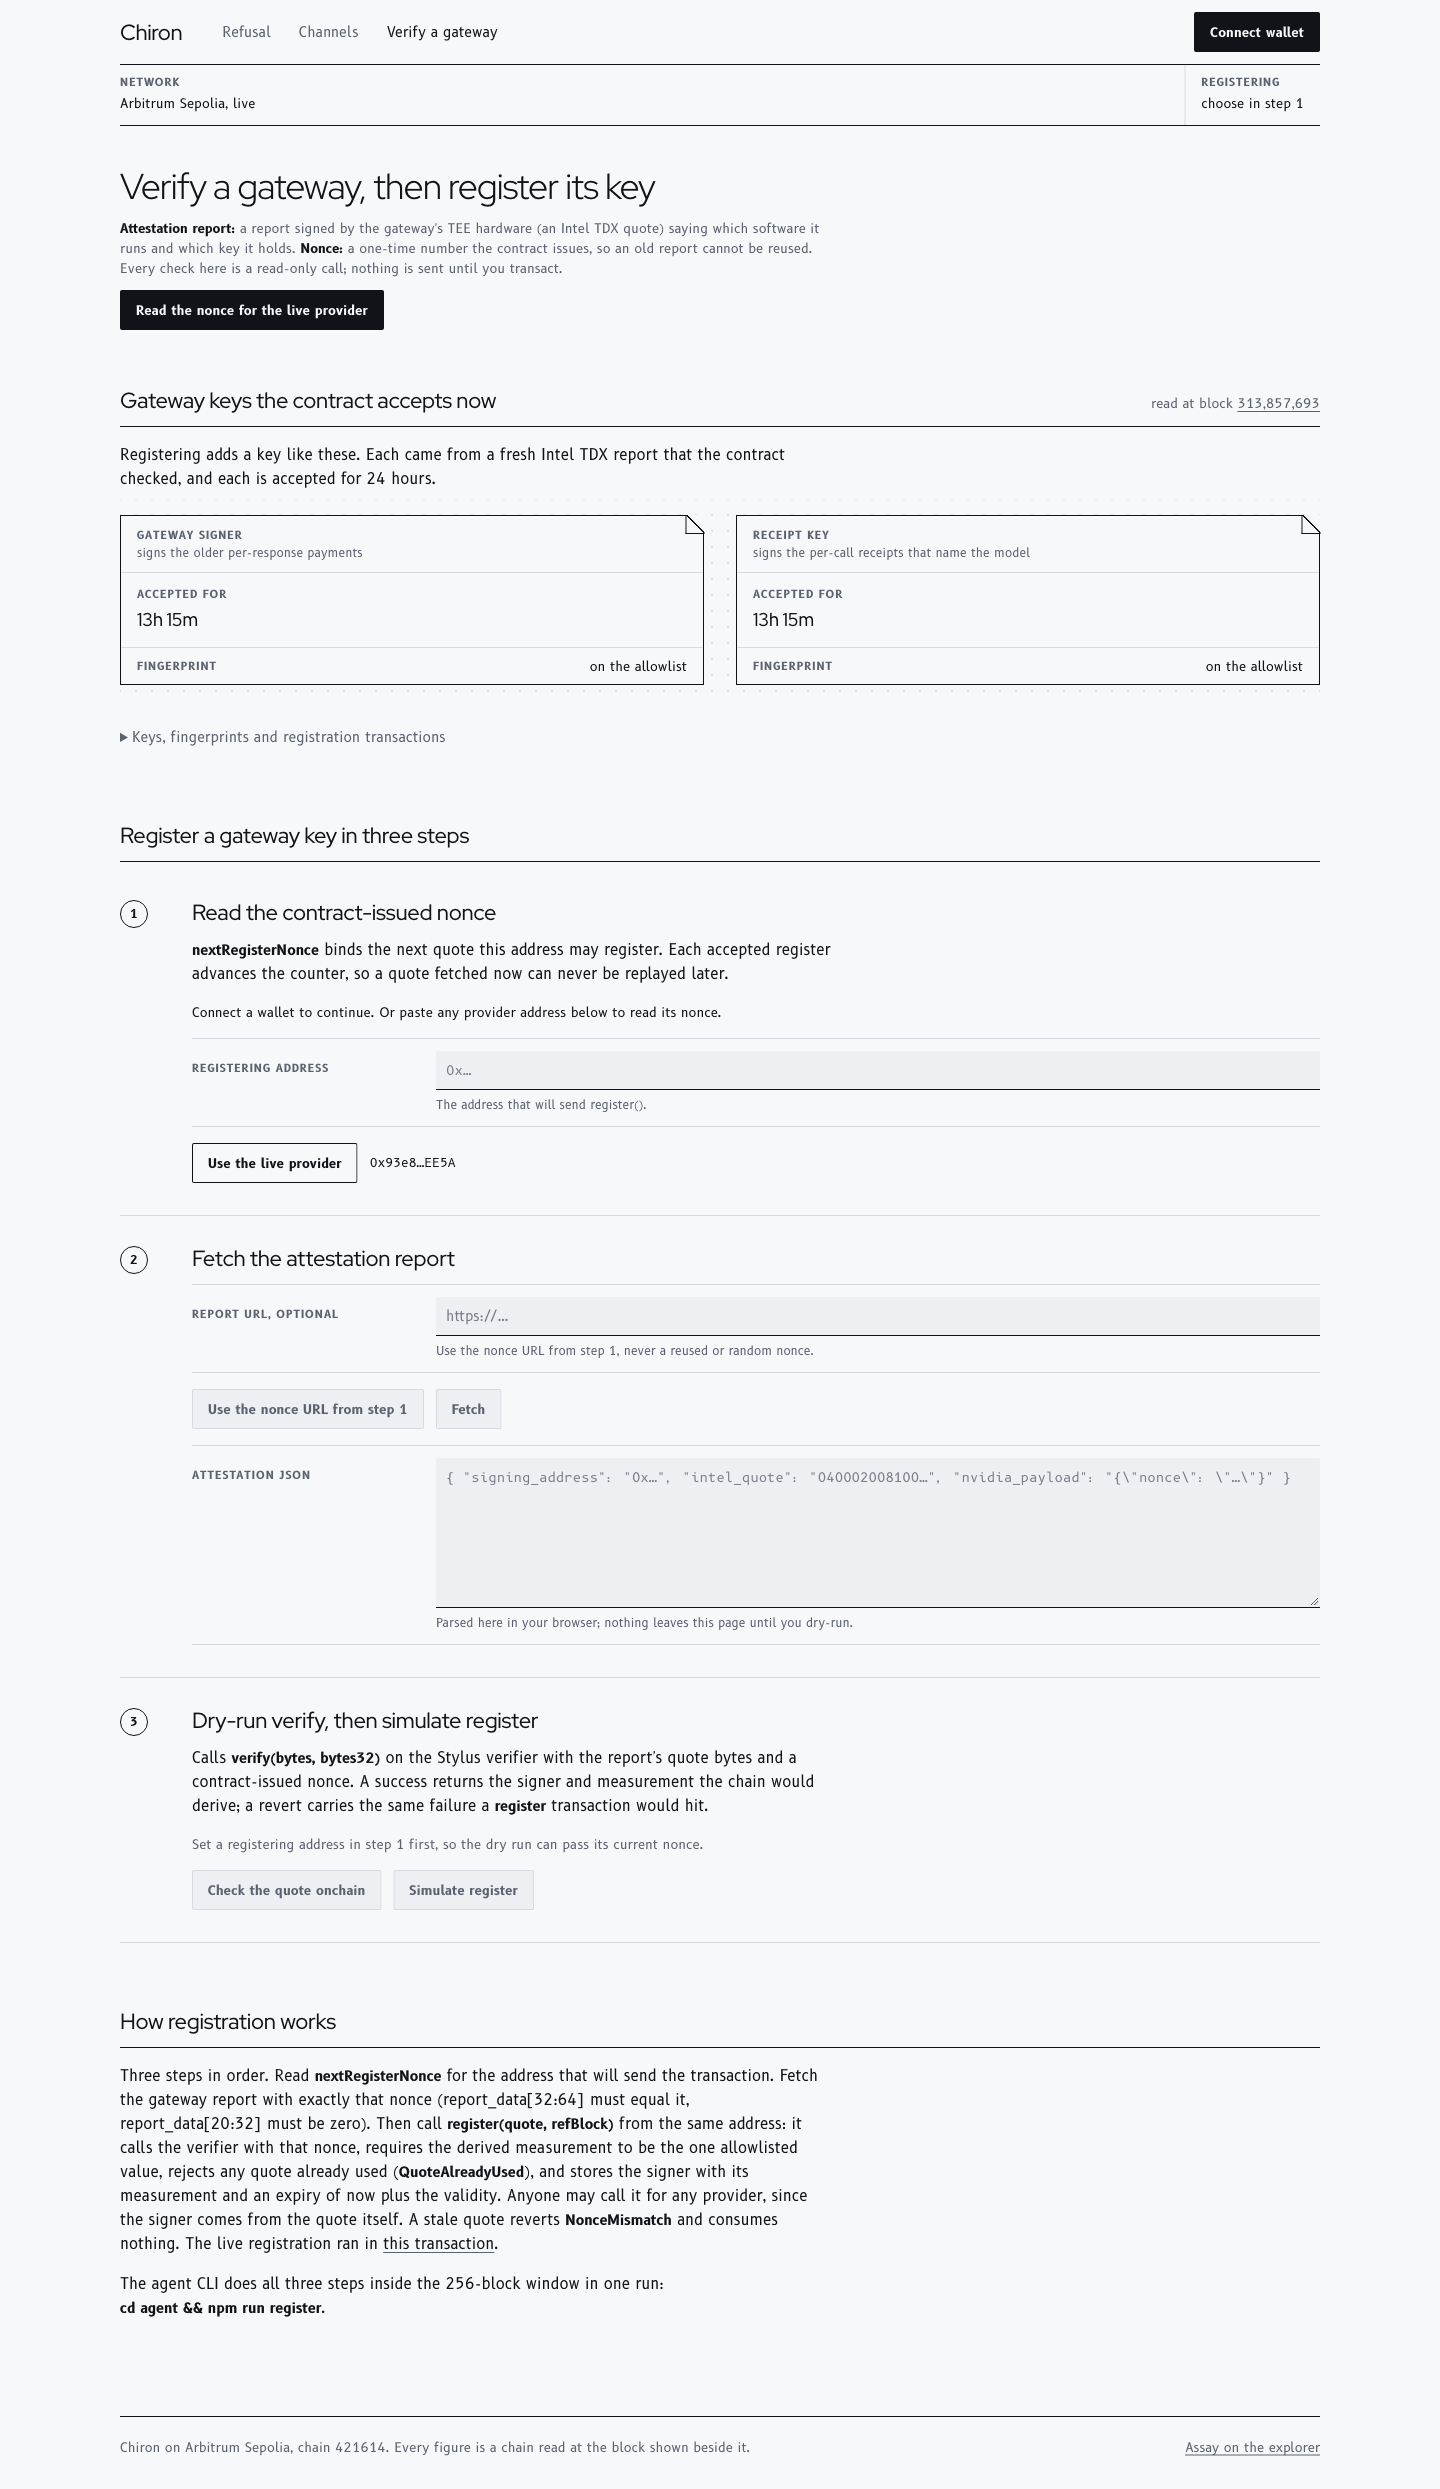
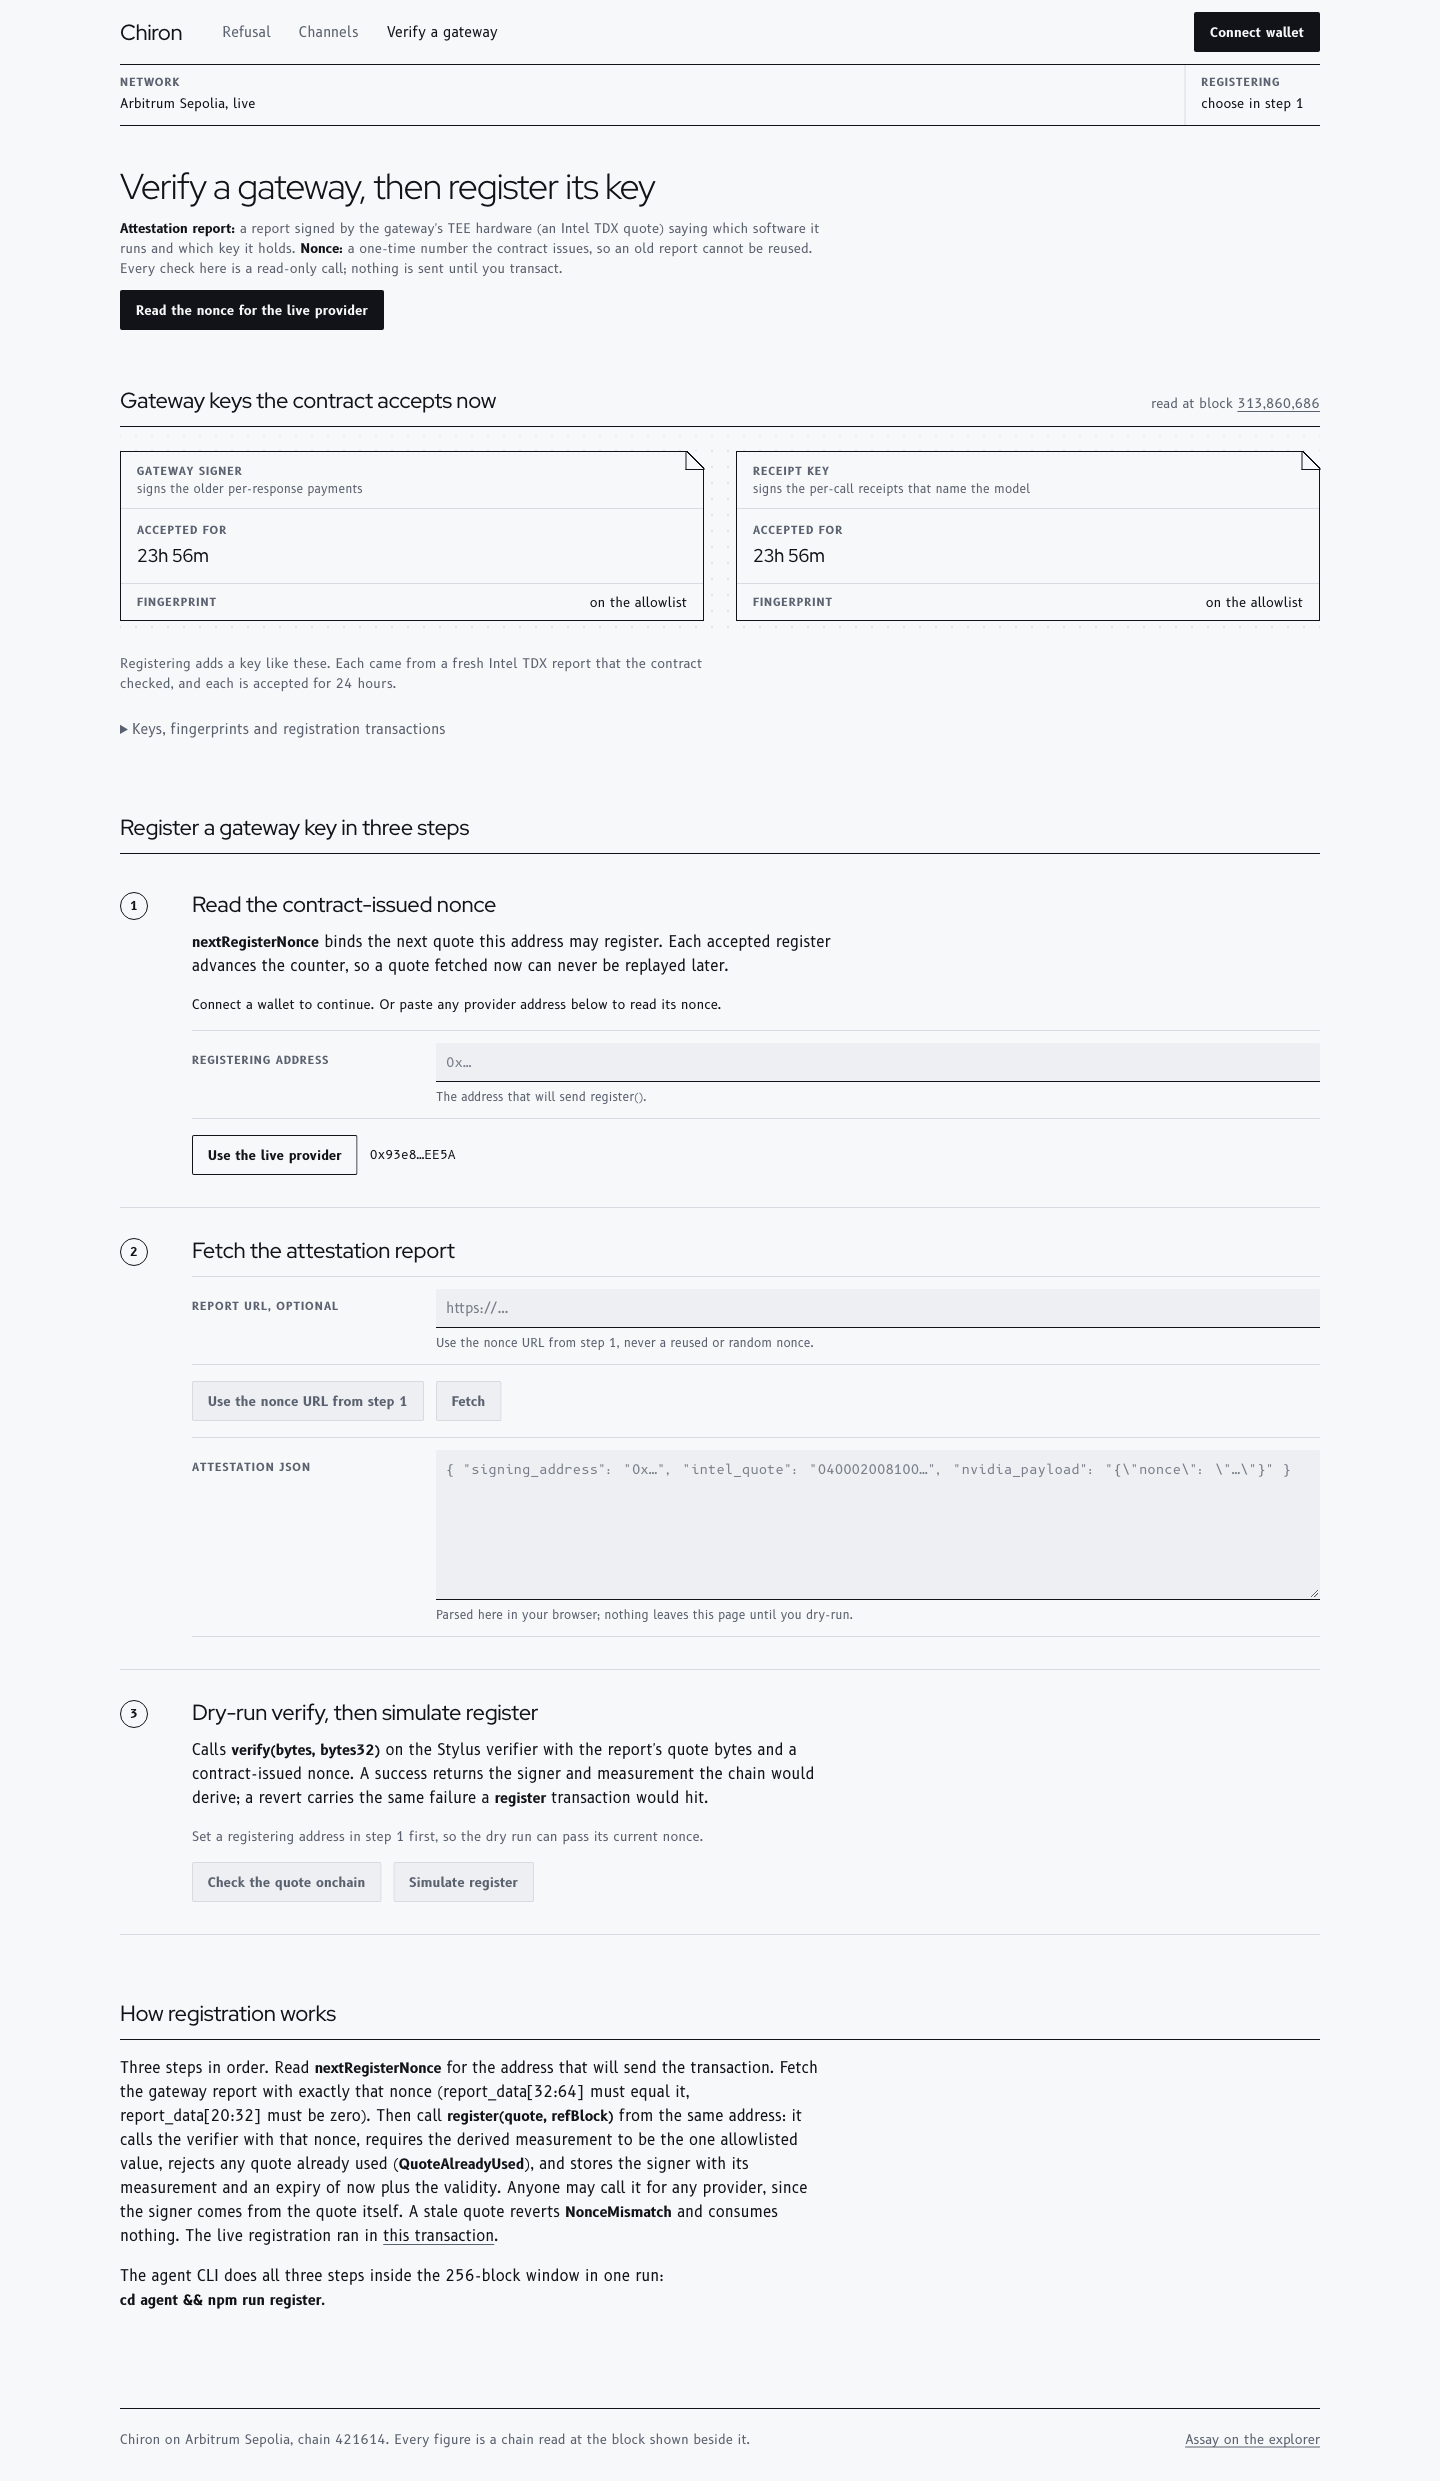
web: critic round 3 follow-ups: the cut explains itself (no match, check 7 of 9) instead of an orphan 7, key intro under the documents, strike clipped to the amount; final screenshots

diff --git a/web/src/pages/Overview.tsx b/web/src/pages/Overview.tsx
@@ -276,7 +276,7 @@ function Refusal() {
       <TitleBlock
         cells={[
           { label: 'Network', value: `${assayChain.name}, live`, mobileHide: true },
-          { label: 'Contract', value: 'Assay, the payment channel', mobileHide: true },
+          { label: 'Contract', value: "Assay, Chiron's payment channel", mobileHide: true },
           verdictCell,
         ]}
       />
@@ -326,7 +326,7 @@ function Refusal() {
               <span className="small">USDG, a dollar stablecoin, locked by an agent to pay one provider per call</span>
             </div>
             <div className="doc-key">
-              <span className="t-label key-label"><Num n={7} mark={r ? mark(7) : 'plain'} /> Opened for the model</span>
+              <span className="t-label key-label">Opened for the model</span>
               <span className="t-diff">{pinnedLabel}</span>
             </div>
           </div>
@@ -334,6 +334,7 @@ function Refusal() {
             <span className="wire a" />
             <span className="cut" />
             <span className="wire b" />
+            {r && <span className="cut-label">{modelsEqual ? 'match' : 'no match'}<br />check 7 of 9</span>}
           </div>
           <div className="doc sheet receipt">
             <div className="doc-head">
@@ -341,7 +342,7 @@ function Refusal() {
               <span className="small">signed with a test key, not by a registered gateway</span>
             </div>
             <div className="doc-key">
-              <span className="t-label key-label"><Num n={7} mark={r ? mark(7) : 'plain'} /> Says it served the model</span>
+              <span className="t-label key-label">Says it served the model</span>
               <span className={modelsEqual ? 't-diff' : 't-diff served'}>{servedId ?? (r ? 'unreadable model id' : 'served-model')}</span>
             </div>
           </div>
@@ -351,7 +352,7 @@ function Refusal() {
           <span>
             {!r ? 'Asking the contract.' : refused ? 'not paid. It stays in channel 0.' : 'The refusal did not happen; see the alert above.'}
             <span className="small">
-              {' '}A read-only demo call{q.data ? <> at block <a href={explorer.block(q.data.block)} target="_blank" rel="noreferrer">{q.data.block.toLocaleString('en-US')}</a>, re-read every 15 s</> : ''}: nothing was sent, and no real llama call was swapped.
+              {' '}A live, read-only demo call with a fixed test receipt{q.data ? <> at block <a href={explorer.block(q.data.block)} target="_blank" rel="noreferrer">{q.data.block.toLocaleString('en-US')}</a>, re-read every 15 s</> : ''}: nothing was sent, and no real llama call was swapped.
             </span>
           </span>
         </div>
@@ -594,11 +595,12 @@ export function KeysSection({ title = 'Registered gateway keys', drawn = false }
         <h2 id="keys-h" className="t-section">{title}</h2>
         {q.data && <Stamp block={q.data.block} />}
       </div>
-      <p className="section-intro">
-        {drawn
-          ? `Registering adds a key like these. Each came from a fresh Intel TDX report that the contract checked, and each is accepted for ${ATTESTATION_VALIDITY / 3600} hours.`
-          : 'Both keys were registered from fresh Intel TDX quotes that the contract\'s quote verifier checked onchain, under the one allowlisted measurement. A key pays nothing after its expiry until it is registered again.'}
-      </p>
+      {!drawn && (
+        <p className="section-intro">
+          Both keys were registered from fresh Intel TDX quotes that the contract&apos;s quote verifier checked onchain,
+          under the one allowlisted measurement. A key pays nothing after its expiry until it is registered again.
+        </p>
+      )}
       {q.isPending && <p className="small" aria-busy="true">Reading signers and receiptSigners.</p>}
       {q.isError && (
         <div className="alarm" role="alert">
@@ -631,6 +633,10 @@ export function KeysSection({ title = 'Registered gateway keys', drawn = false }
               })}
             </div>
           </div>
+          <p className="section-intro small">
+            Registering adds a key like these. Each came from a fresh Intel TDX report that the contract checked, and each
+            is accepted for {ATTESTATION_VALIDITY / 3600} hours.
+          </p>
           <details className="more">
             <summary>Keys, fingerprints and registration transactions</summary>
             <dl className="kvs">

diff --git a/web/src/styles.css b/web/src/styles.css
@@ -140,6 +140,8 @@ button, input, select, textarea { font: inherit; color: inherit; }
 .face .connector { grid-column: 2; grid-row: 1; }
 .face .connector .wire, .face .connector .cut { top: calc(100% - 34px); }
 .doc > :last-child, .doc-rows > :last-child { border-bottom: 0; }
+.cut-label { position: absolute; left: 0; right: 0; top: calc(100% - 6px); text-align: center; font: 700 10px/12px var(--body); letter-spacing: 0.06em; text-transform: uppercase; color: var(--signal); }
+.connector.whole .cut-label { color: var(--graphite); }
 .outcome { display: flex; flex-wrap: wrap; align-items: baseline; gap: 8px 16px; margin-top: 22px; }
 .run .doc, .run .connector { animation-play-state: running; }
 details.more { margin-top: 16px; font-size: 14px; }
@@ -214,7 +216,7 @@ details.inspect[open] { padding-bottom: 24px; }
 .amount { display: grid; gap: 4px; padding: 12px 16px 14px; border-bottom: 1px solid var(--rule); }
 .struck { position: relative; display: inline-block; justify-self: start; }
 .struck::after {
-  content: ''; position: absolute; left: -4px; right: -4px; top: 55%; border-top: 2px solid var(--signal);
+  content: ''; position: absolute; left: 0; right: 0; top: 55%; border-top: 2px solid var(--signal);
   transform-origin: left center;
 }
 
@@ -368,6 +370,7 @@ table.ledger td { padding: 10px 12px 10px 0; border-bottom: 1px solid var(--rule
   .face .connector .cut { left: 50%; top: 50%; width: 30px; height: 20px; margin: -10px 0 0 -15px; }
   .face .connector .cut::before, .face .connector .cut::after { top: auto; bottom: auto; left: 5px; right: 5px; width: auto; height: 0; border-left: 0; border-top: 2px solid var(--signal); transform: rotate(-18deg); }
   .face .connector .cut::before { top: 5px; } .face .connector .cut::after { top: 13px; }
+  .face .cut-label { left: calc(50% + 24px); right: auto; top: calc(50% - 6px); text-align: left; }
   .board.verdict figcaption { font-size: 16px; line-height: 22px; }
   .t-display br { display: none; }
   .t-title { font-size: 28px; line-height: 32px; }
